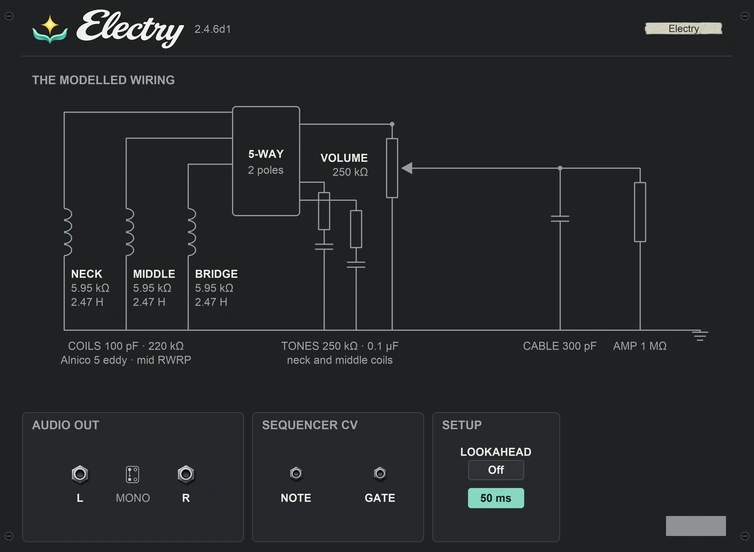
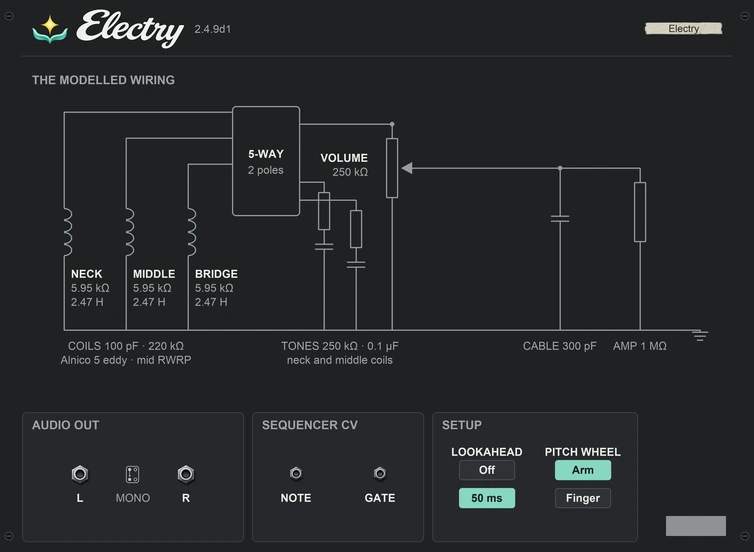
feat(products): Electry moves to 2.4.9d1
Electry 2.4.9d1 was built and created in Reason's test host on 15 November:
new front and rear panels and cover from its regenerated Shop set (the front
shows Player Feel), its version history, and the page's copy now covers
Player Feel and finger bends on the pitch wheel. Unreleased, as before.

Changed region(s): [[0.6101, 0.8007, 0.8236, 0.9239], [0.6101, 0.8623, 0.7016, 0.9239]]

diff --git a/product/electry/index.html b/product/electry/index.html
@@ -13,7 +13,7 @@
   <meta property="og:site_name" content="Protocodus">
   <meta property="og:locale" content="en_US">
   <meta property="og:url" content="https://protocodus.cz/product/electry/">
-  <meta property="og:image" content="https://protocodus.cz/product/electry/Electry_Thumbnail_800.png?v=ca820f5302c5">
+  <meta property="og:image" content="https://protocodus.cz/product/electry/Electry_Thumbnail_800.png?v=0f769fac029c">
   <meta property="og:image:width" content="800">
   <meta property="og:image:height" content="800">
   <meta property="og:image:alt" content="Electry cover: the Electry front panel with its fretboard display under the Electry wordmark.">
@@ -27,12 +27,12 @@
     "@type": "SoftwareApplication",
     "name": "Electry",
     "url": "https://protocodus.cz/product/electry/",
-    "image": "https://protocodus.cz/product/electry/Electry_Thumbnail_800.png?v=ca820f5302c5",
+    "image": "https://protocodus.cz/product/electry/Electry_Thumbnail_800.png?v=0f769fac029c",
     "description": "Electry is a modelled six-string electric guitar for Reason with three single-coil pickups, a floating tremolo bridge and keyswitched bends, slides and harmonics. Coming soon.",
     "applicationCategory": "MultimediaApplication",
     "operatingSystem": "macOS, Windows",
     "softwareRequirements": "Reason",
-    "softwareVersion": "2.4.6f1",
+    "softwareVersion": "2.4.9d1",
     "author": { "@type": "Organization", "name": "Protocodus", "url": "https://protocodus.cz/" }
   }
   </script>
@@ -42,7 +42,7 @@
   <meta name="twitter:card" content="summary_large_image">
   <meta name="twitter:title" content="Electry — Modelled Electric Guitar Rack Extension | Protocodus">
   <meta name="twitter:description" content="Electry is a modelled six-string electric guitar for Reason with three single-coil pickups, a floating tremolo bridge and keyswitched bends, slides and harmonics. Coming soon.">
-  <meta name="twitter:image" content="https://protocodus.cz/product/electry/Electry_Thumbnail_800.png?v=ca820f5302c5">
+  <meta name="twitter:image" content="https://protocodus.cz/product/electry/Electry_Thumbnail_800.png?v=0f769fac029c">
   <meta name="twitter:image:alt" content="Electry cover: the Electry front panel with its fretboard display under the Electry wordmark.">
   <script type="application/ld+json">
 {
@@ -129,13 +129,13 @@
               <span class="product-status">Unreleased</span>
               <a href="#details" class="detail-link" data-analytics-cta="hero_details" data-analytics-action="view_details">See how it works <span aria-hidden="true">↓</span></a>
             </div>
-            <p class="availability-note">Rack Extension in development. The latest build is 2.4.6f1; it is not yet in the Reason Shop. <a href="#versions" class="text-link" data-analytics-cta="hero_versions" data-analytics-action="view_versions">Version history</a>.</p>
+            <p class="availability-note">Rack Extension in development. The latest build is 2.4.9d1; it is not yet in the Reason Shop. <a href="#versions" class="text-link" data-analytics-cta="hero_versions" data-analytics-action="view_versions">Version history</a>.</p>
           </div>
         </div>
         <figure class="shot hero-shot">
-          <a class="screenshot-link" href="electry-rack-front.webp?v=95072231be67" aria-label="View the Electry Rack Extension front panel at full size" data-analytics-cta="front_panel" data-analytics-action="view_screenshot">
-            <img src="electry-rack-front.webp?v=95072231be67" width="754" height="552" fetchpriority="high" decoding="async" alt="Electry Rack Extension front panel with the pick position marker, five-way pickup selector and fretboard display, guitar, picking-hand and output knobs, the arm and mute wheels, and the articulation, stroke and damp keyswitch buttons">
-            <span class="shot-caption">Front panel · 2.4.6f1 development build <span>View full size <span aria-hidden="true">↗</span></span></span>
+          <a class="screenshot-link" href="electry-rack-front.webp?v=f04201562744" aria-label="View the Electry Rack Extension front panel at full size" data-analytics-cta="front_panel" data-analytics-action="view_screenshot">
+            <img src="electry-rack-front.webp?v=f04201562744" width="754" height="552" fetchpriority="high" decoding="async" alt="Electry Rack Extension front panel with the pick position marker, five-way pickup selector and fretboard display, guitar, picking-hand (with Player Feel) and output knobs, the arm and mute wheels, and the articulation, stroke and damp keyswitch buttons">
+            <span class="shot-caption">Front panel · 2.4.9d1 development build <span>View full size <span aria-hidden="true">↗</span></span></span>
           </a>
         </figure>
       </div>
@@ -149,7 +149,7 @@
           <p class="lede">A picking hand and a fretting hand play each note you send, on a fretboard that shows where they are. Electry sends the guitar’s direct signal, so the amplifier and effects are yours to choose in the rack.</p>
         </div>
         <ul class="features">
-          <li><h3>Pickups and wiring</h3><p>The five-way switch selects the bridge, middle or neck pickup or one of the in-between pairs. Volume, Neck Tone and Mid Tone work through a model of the guitar’s own wiring, its cable and the amplifier input it feeds.</p></li><li><h3>The picking hand</h3><p>Position moves the pick between 25 and 250 mm from the saddles, Pick goes from a thin pick to a heavy one, Strum spreads a chord over up to 40 ms, and Release sets how much the fingers sound as they lift.</p></li><li><h3>Keyswitched techniques</h3><p>Fifteen keyswitches from C0 to D1 give dead notes, legato, slides, harmonics, pinch harmonics, whole- and half-tone bends, slide-ins and vibrato, stroke direction, fingers instead of the pick, and a fretting hand laid across the strings to stop them.</p></li><li><h3>Arm, palm and pedal</h3><p>The pitch wheel is the tremolo arm, the mod wheel lowers the palm for palm mutes, aftertouch adds vibrato and the sustain pedal lets released notes ring.</p></li>
+          <li><h3>Pickups and wiring</h3><p>The five-way switch selects the bridge, middle or neck pickup or one of the in-between pairs. Volume, Neck Tone and Mid Tone work through a model of the guitar’s own wiring, its cable and the amplifier input it feeds.</p></li><li><h3>The picking hand</h3><p>Position moves the pick between 25 and 250 mm from the saddles, Pick goes from a thin pick to a heavy one, Strum spreads a chord over up to 40 ms, and Release sets how much the fingers sound as they lift. Player Feel adds the small variations of a real player’s hands: fret contact, pick noise and slight changes in pressure.</p></li><li><h3>Keyswitched techniques</h3><p>Fifteen keyswitches from C0 to D1 give dead notes, legato, slides, harmonics, pinch harmonics, whole- and half-tone bends, slide-ins and vibrato, stroke direction, fingers instead of the pick, and a fretting hand laid across the strings to stop them.</p></li><li><h3>Arm, palm and pedal</h3><p>The pitch wheel is the tremolo arm or, set to Finger on the back, bends the last fretted string up by as much as two semitones; the mod wheel lowers the palm for palm mutes, aftertouch adds vibrato and the sustain pedal lets released notes ring.</p></li>
         </ul>
       </div>
     </section>
@@ -162,9 +162,9 @@
           <p class="lede">With Fretting Lookahead on, Electry plays 50 ms late so the fretting hand reaches each note before it is picked, adding fret ticks and finger glides; Reason compensates for the delay on playback. Turn it off on the back to play live.</p><p class="lede">Both audio sockets carry the same mono guitar signal, and Note and Gate CV inputs play it one note at a time. Comp is a clean compressor on the direct signal and Level sets the output.</p>
         </div>
         <figure class="shot">
-          <a class="screenshot-link" href="electry-rack-rear.webp?v=2fa519dfa9f9" aria-label="View the Electry Rack Extension rear panel at full size" data-analytics-cta="rear_panel" data-analytics-action="view_screenshot">
-            <img src="electry-rack-rear.webp?v=2fa519dfa9f9" width="754" height="552" loading="lazy" decoding="async" alt="Electry Rack Extension rear panel with a schematic of the modelled pickups, switch, tone and volume controls, cable and amplifier input, the audio outputs, Note and Gate CV inputs and the Lookahead setting">
-            <span class="shot-caption">Rear panel · 2.4.6f1 development build (label shows 2.4.6d1) <span>View full size <span aria-hidden="true">↗</span></span></span>
+          <a class="screenshot-link" href="electry-rack-rear.webp?v=130bfaf0baec" aria-label="View the Electry Rack Extension rear panel at full size" data-analytics-cta="rear_panel" data-analytics-action="view_screenshot">
+            <img src="electry-rack-rear.webp?v=130bfaf0baec" width="754" height="552" loading="lazy" decoding="async" alt="Electry Rack Extension rear panel with a schematic of the modelled pickups, switch, tone and volume controls, cable and amplifier input, the audio outputs, Note and Gate CV inputs and the Lookahead setting">
+            <span class="shot-caption">Rear panel · 2.4.9d1 development build <span>View full size <span aria-hidden="true">↗</span></span></span>
           </a>
         </figure>
       </div>
@@ -191,9 +191,13 @@
         <div class="head">
           <span class="tag">Version history</span>
           <h2 class="title">Electry version history.</h2>
-          <p class="lede">Rack Extension in development. The latest build is 2.4.6f1; it is not yet in the Reason Shop.</p>
+          <p class="lede">Rack Extension in development. The latest build is 2.4.9d1; it is not yet in the Reason Shop.</p>
         </div>
         <div class="version-history">
+          <article data-development-version="2.4.9d1">
+            <h3>2.4.9d1 <span>Unreleased · Development build · 15 November 2026 · built, created in Reason’s test host, not yet played there</span></h3>
+            <p>Player Feel adds touch-dependent variation from the fretting and picking hands, and a rear Pitch Wheel setting turns the wheel into a finger bend of one fretted string, up to two semitones (2.4.8). Pick attacks follow the MIDI and Strum timing exactly, and a palm on the strings lengthens the pick’s release as a real palm mute does (2.4.7, 2.4.9). Factory patches start with no Player Feel and the arm on the wheel.</p>
+          </article>
           <article data-development-version="2.4.6f1">
             <h3>2.4.6f1 <span>Unreleased · Release candidate · 10 November 2026</span></h3>
             <p>The final build of 2.4.6d1: the same engine and patch values, with f1 on its patches and rear panel. Reason’s test host created it fresh and loaded its default patch.</p>

diff --git a/product/SCREENSHOTS.md b/product/SCREENSHOTS.md
@@ -81,8 +81,11 @@ November), Keyra 2.14.0f1 (panel C, 5U), Oregana 0.8.0f1 and YouKnow
 1.4.9f1. Acukoto 0.25.18d1, Aculele 0.4.67d1, Aculyre 0.13.7d1 and Acustra
 1.9.50d1 come from the Rack branch `claude/carbon-u45-2026-11-15`
 (`520dcfd`, on top of `a78ae28`), built on 15 November and waiting for their
-Recon check before they reach `main`; only their rear panels changed. Newer
-source on `main` with no U45 (Electry 2.4.9d1, Oregana 0.9.0d1) is not shown. None of these builds
+Recon check before they reach `main`; only their rear panels changed (they
+passed it and reached `main` the same night). Later on 15 November Electry
+moved to 2.4.9d1, built and created in Recon, with its Shop set regenerated
+(the front now shows Player Feel). Newer source on `main` with no U45
+(Oregana 0.9.0d1) is not shown. None of these builds
 is uploaded or accepted, and every page labels them Unreleased; the Shop
 versions in `STORE_SNAPSHOT.json` are unchanged and were not rechecked.
 New panels were converted from `dist/` with `cwebp -q 92 -m 6`, which
